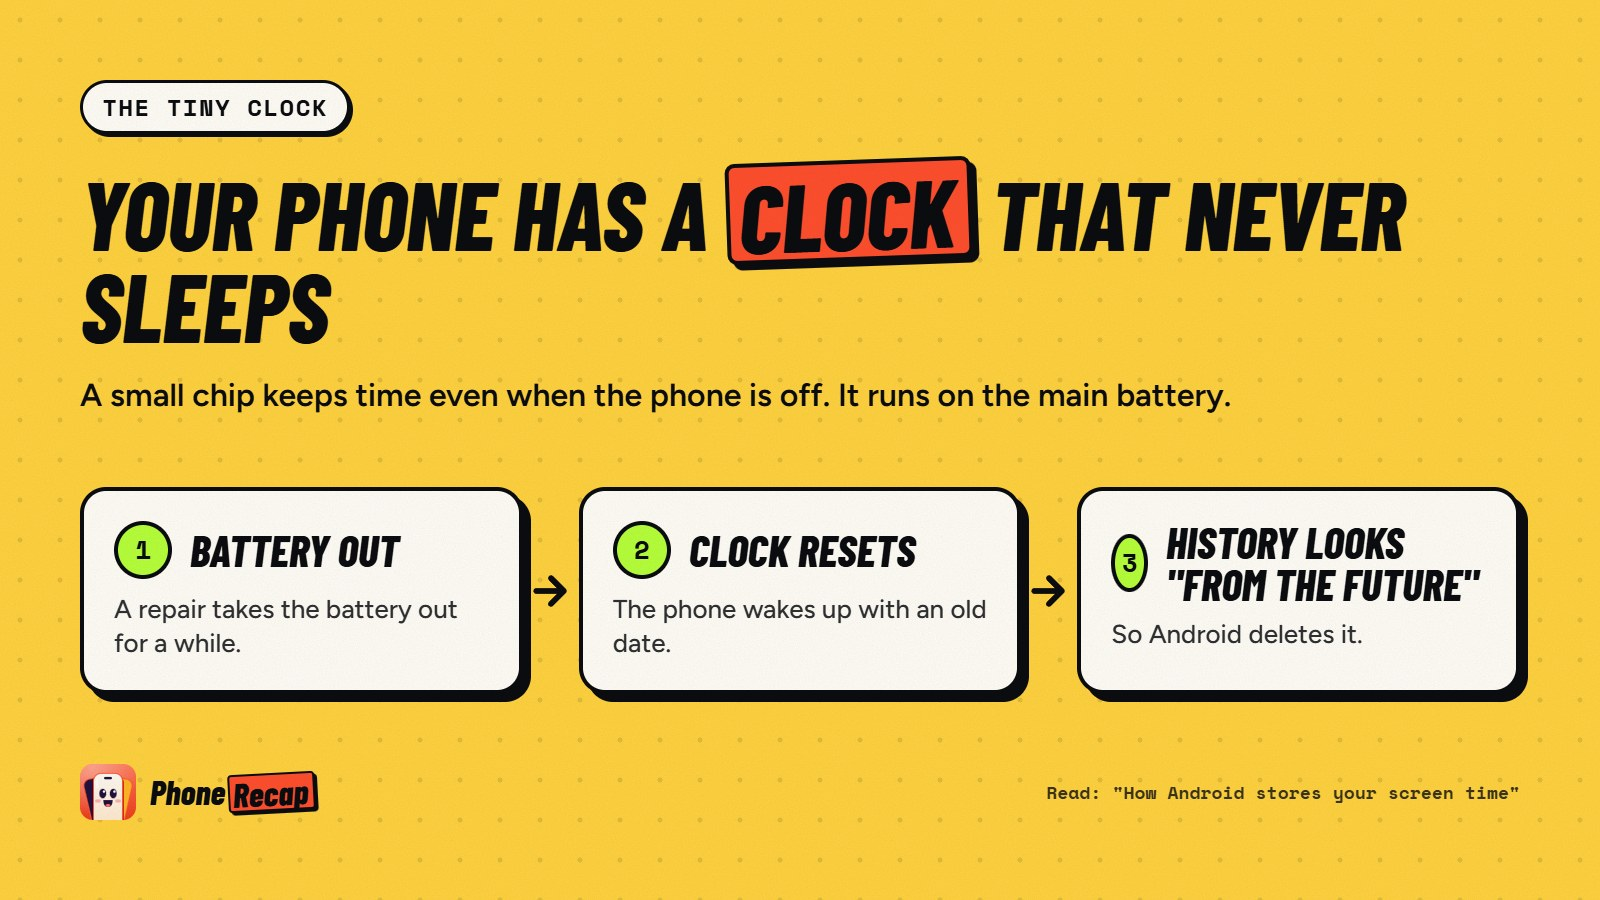
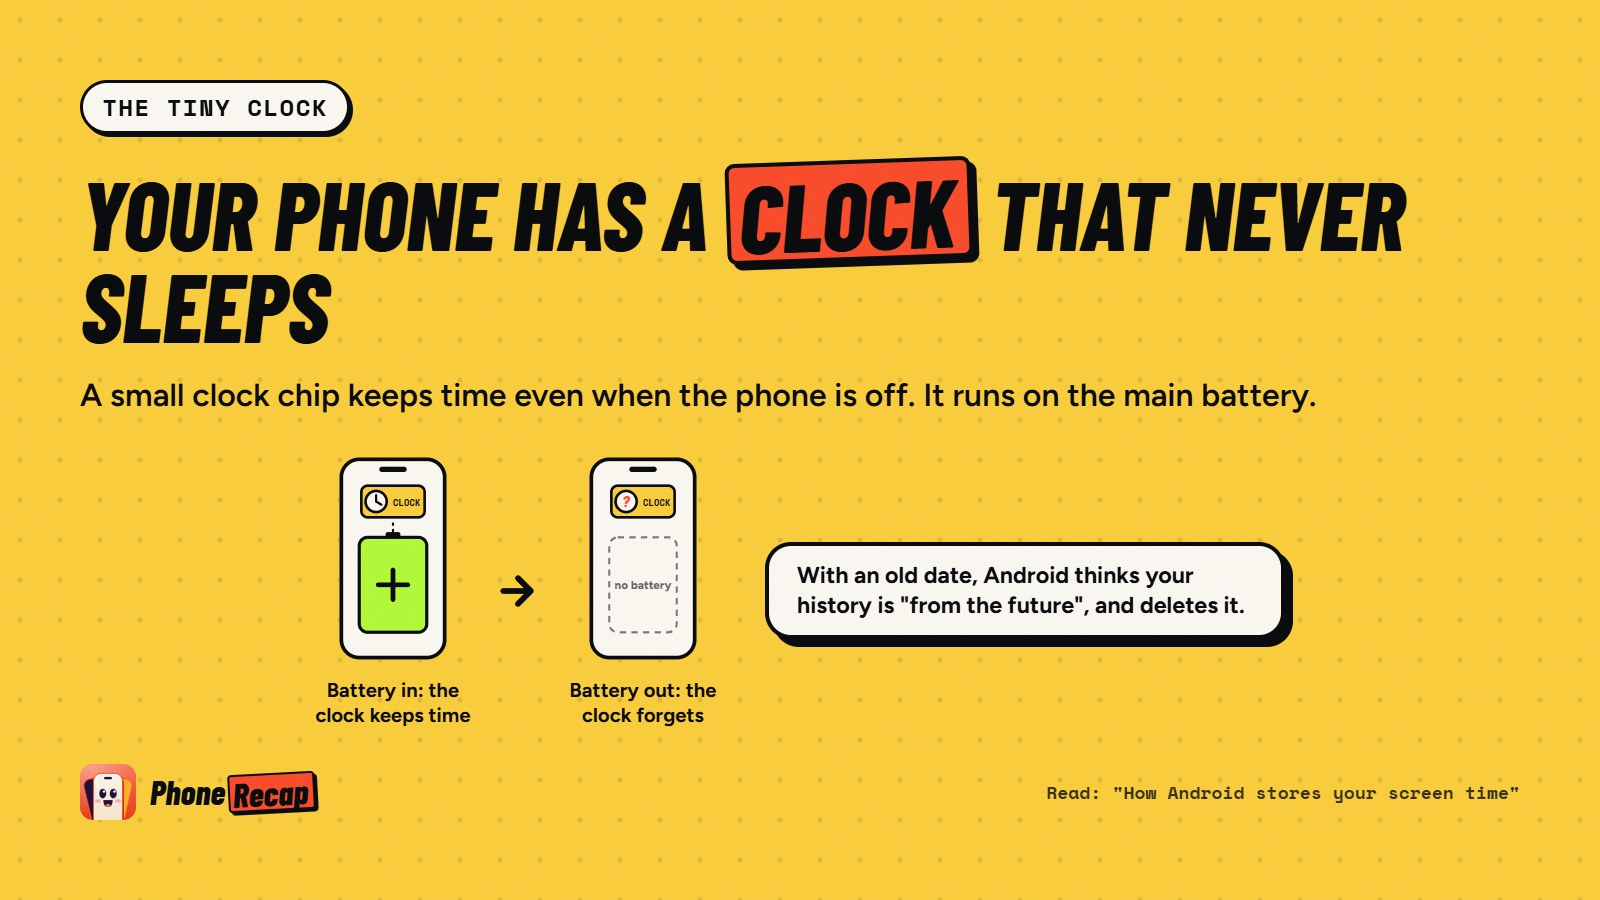
content: "How Android stores your screen time" first (17 Nov); 12-tester post as a draft for 24 Nov; new drawings, AI help notes

Changed region(s): [[0.0312, 0.4978, 0.9688, 0.8089], [0.125, 0.4044, 0.8125, 0.4667]]

diff --git a/content/posts/how-android-stores-screen-time/index.md b/content/posts/how-android-stores-screen-time/index.md
@@ -1,7 +1,7 @@
 ---
 title: 'How Android stores your screen time (and how a battery replacement erased mine, twice)'
 description: 'Android keeps app-by-app detail for about 10 days and totals for months. A battery repair can wipe it all. What I learned building PhoneRecap.'
-date: '2026-11-24'
+date: '2026-11-17'
 slug: '/blog/how-android-stores-screen-time/'
 tags:
   - android
@@ -9,7 +9,7 @@ tags:
   - privacy
 cover: './cover.jpg'
 coverAlt: 'Your phone forgets: how long Android keeps your screen time, and why a battery repair can erase it'
-draft: true
+draft: false
 ---
 
 I built PhoneRecap, an Android app that turns your phone usage into a year-in-review story: total hours, top apps,
@@ -72,7 +72,7 @@ totals since 26 June. Only the ~1.5 days it hadn't saved yet were lost, because 
 
 ## 3. Why: the phone's clock
 
-![Three steps: the battery comes out, the phone's clock resets to an old date, and Android deletes the history because it looks like it is from the future](images/memory-3-wide.jpg)
+![Two phones: with the battery in, the clock chip keeps time; with the battery out, the clock forgets, and Android then treats your history as from the future and deletes it](images/memory-3-wide.jpg)
 
 A phone keeps time with an **RTC (real-time clock)**: a tiny circuit that keeps counting even when the phone is off.
 It sits in the phone's power chip and runs on the **main battery**. Take the battery out for a repair, and the RTC
@@ -86,6 +86,8 @@ Android's usage database doesn't like that. At startup it **deletes files that l
 future** (it's in the AOSP code), and with the clock in the past, everything you recorded looks like it's from the
 future. A power cut that corrupts the database's own files can also make Android wipe it and start over. Which one
 hit my phone can't be proven without system logs (my phone's maker turns them off); the result was the same.
+I found this rule by going through the AOSP code with Claude Code, an AI coding assistant: it read the
+relevant Android source files with me and pointed at the "future files" check.
 
 Computers have the same weak spot. A PC keeps its clock and BIOS (basic input/output system) settings alive with a
 small coin battery, the CMOS (complementary metal-oxide-semiconductor) battery. On my old PC, a 3 GB RAM (random-access
@@ -93,6 +95,8 @@ memory) AMD Athlon machine, the date reset on every start and I typed it in by h
 the date kept falling back to around 2022 and the RAM dropped from 3200 to about 2666 MHz (megahertz), because its speed
 profile lives in the same memory. A new coin battery fixed it. A phone has no separate coin battery, so **every
 battery replacement is that moment**.
+
+![A PC motherboard with its small coin battery, which keeps the clock and settings; when it dies, the date and settings like RAM speed reset](images/memory-5-wide.jpg)
 
 ## 4. What I built because of it
 

diff --git a/content/posts/google-play-12-tester-rule/index.md b/content/posts/google-play-12-tester-rule/index.md
@@ -1,7 +1,7 @@
 ---
 title: "How I got my Android app through Google Play's 12-tester rule as a solo developer"
 description: 'Google Play wants 12 testers for 14 days before a new solo developer can publish. Where my testers came from, what testers found, and my checklist.'
-date: '2026-11-17'
+date: '2026-11-24'
 slug: '/blog/google-play-12-tester-rule/'
 tags:
   - android
@@ -9,7 +9,7 @@ tags:
   - indiedev
 cover: './cover.jpg'
 coverAlt: 'The 12-tester rule: what new solo developers must do before their app can go live'
-draft: false
+draft: true
 ---
 
 If you made your Google Play developer account after November 2023 as a person (not a company), you can't just
@@ -77,6 +77,13 @@ bugs I couldn't:
 
 I shipped **3 updates during the test**. That also gave me real answers for the production form.
 
+## AI did a lot of the heavy lifting
+
+I'm a solo developer, so I leaned on AI (artificial intelligence) coding assistants, **Claude Code** and **Codex**, the whole way: drafting
+the tester posts and messages, writing the store listing and the answers for the production form, and fixing the
+bugs testers reported quickly, each fix with a test. They saved me days. I still read every word before it went
+out and tested every fix on real phones, because they can be confidently wrong.
+
 ## The production form
 
 When the 14 days are done, Play asks things like:
@@ -102,7 +109,8 @@ added a line whenever a tester reported something. Be specific: name the bugs an
 6. Check the tester count every day for the first week.
 7. Ship at least one update with tester fixes.
 8. Keep a notes file for the production form.
-9. Apply on day 14+; Google replies by email.
+9. Use an AI assistant for drafts and fixes, and check everything it gives you.
+10. Apply on day 14+; Google replies by email.
 
 ## How it ended
 
@@ -113,7 +121,8 @@ countries.
 
 PhoneRecap turns your Android phone usage into a short year-in-review story (total hours, top apps, your busiest
 month, a "phone personality") with monthly recaps and home-screen widgets. It has **no internet permission at all**,
-so nothing leaves your phone. I'll write about the Android side of it next.
+so nothing leaves your phone. If you're curious how the app works with Android's usage data, I wrote about that here:
+[How Android stores your screen time](/blog/how-android-stores-screen-time/).
 
 Free, Android 10+: [PhoneRecap on Google Play](https://play.google.com/store/apps/details?id=com.madhavkwatra.phonerecap&referrer=utm_source%3Dblog%26utm_campaign%3Darticle1)
 
